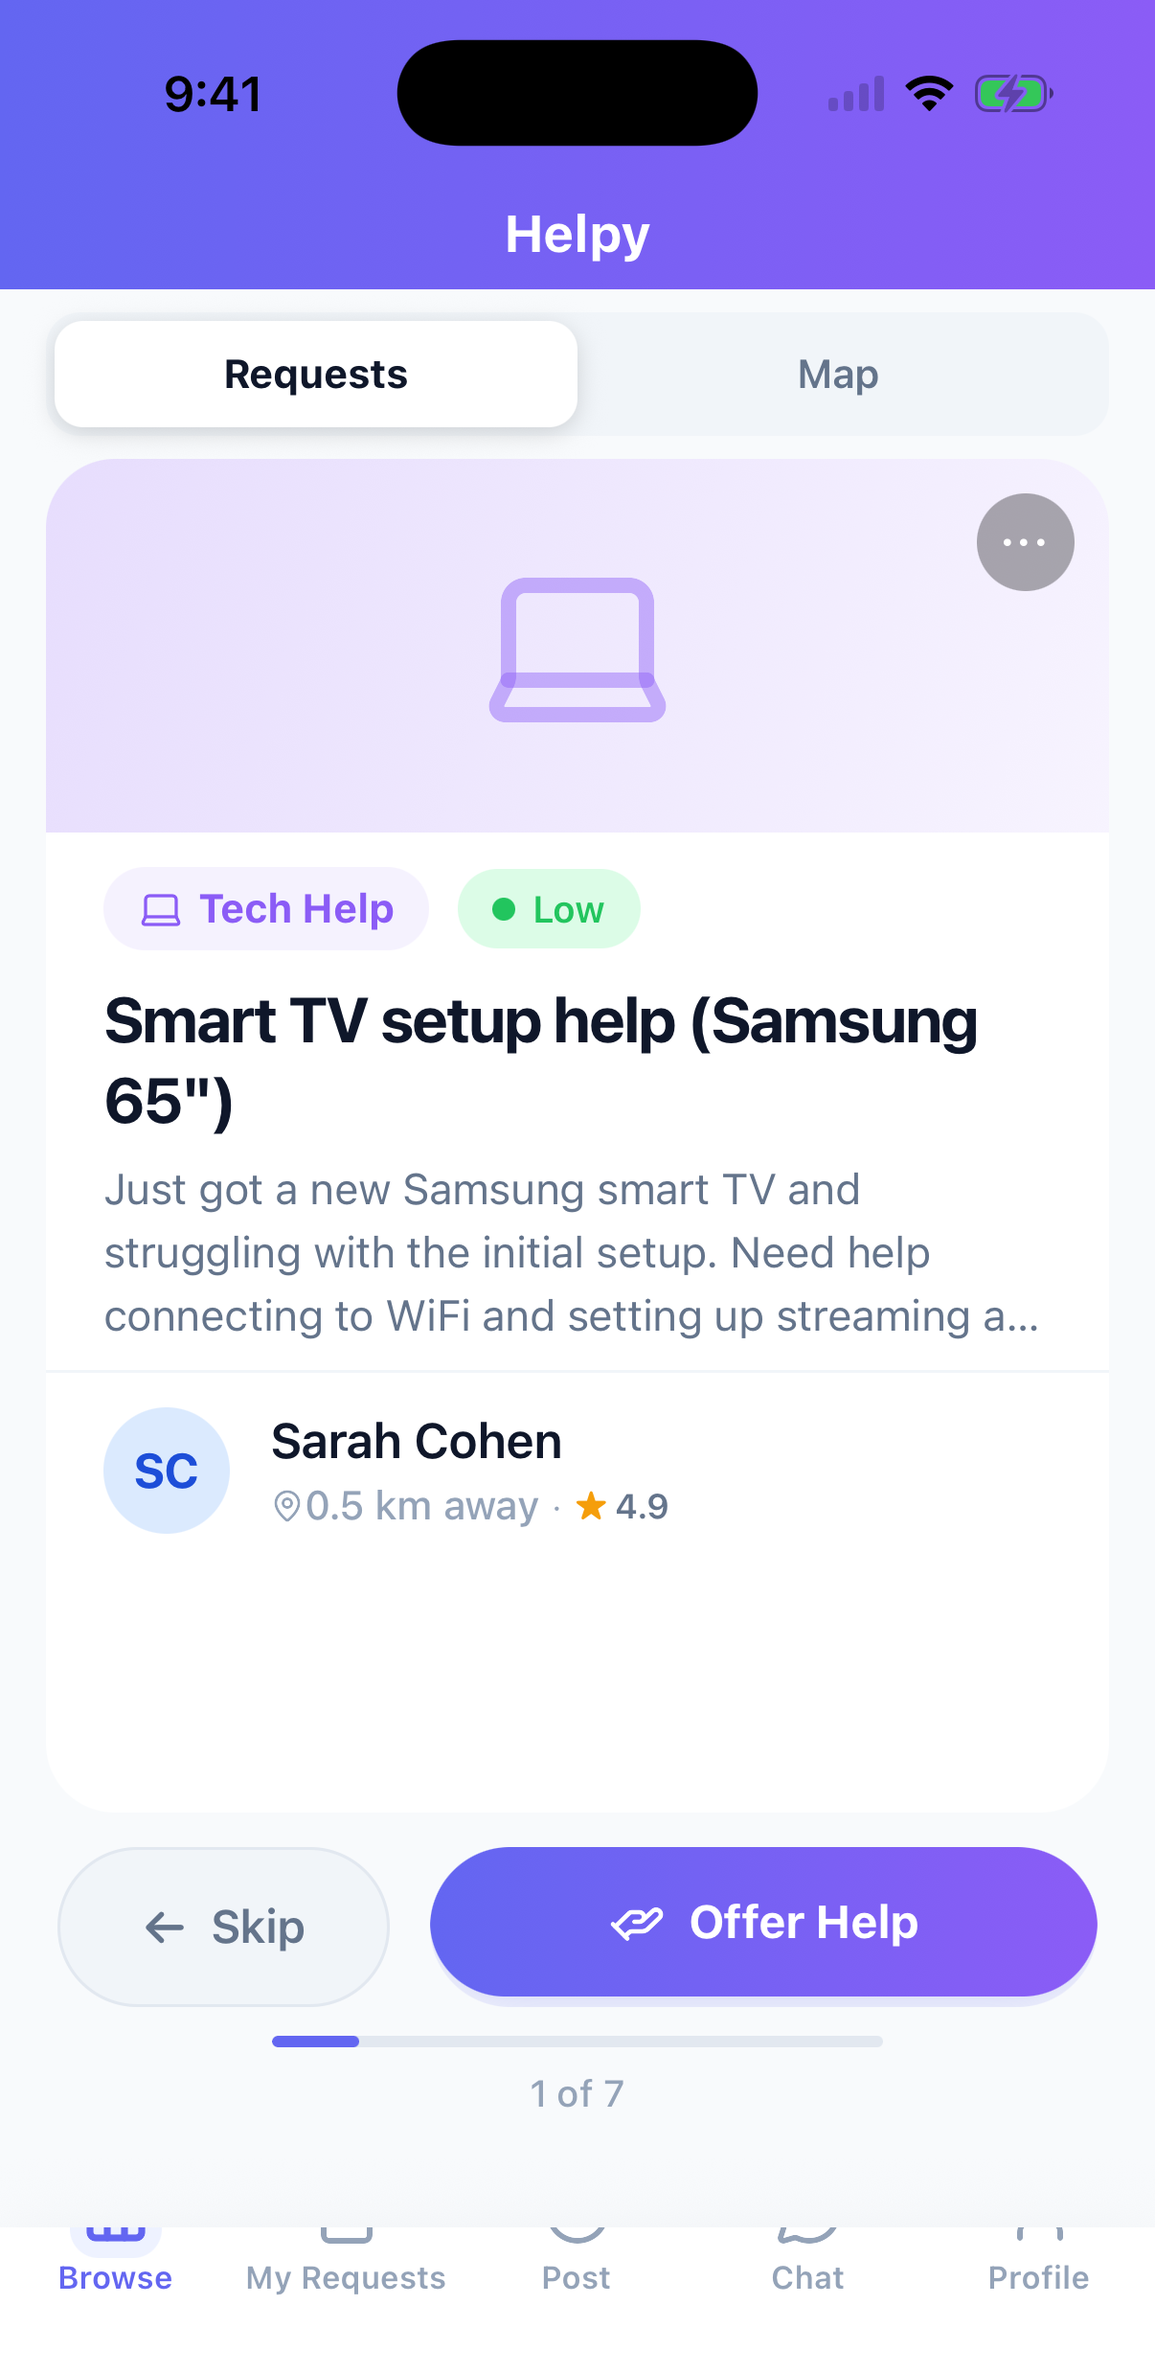
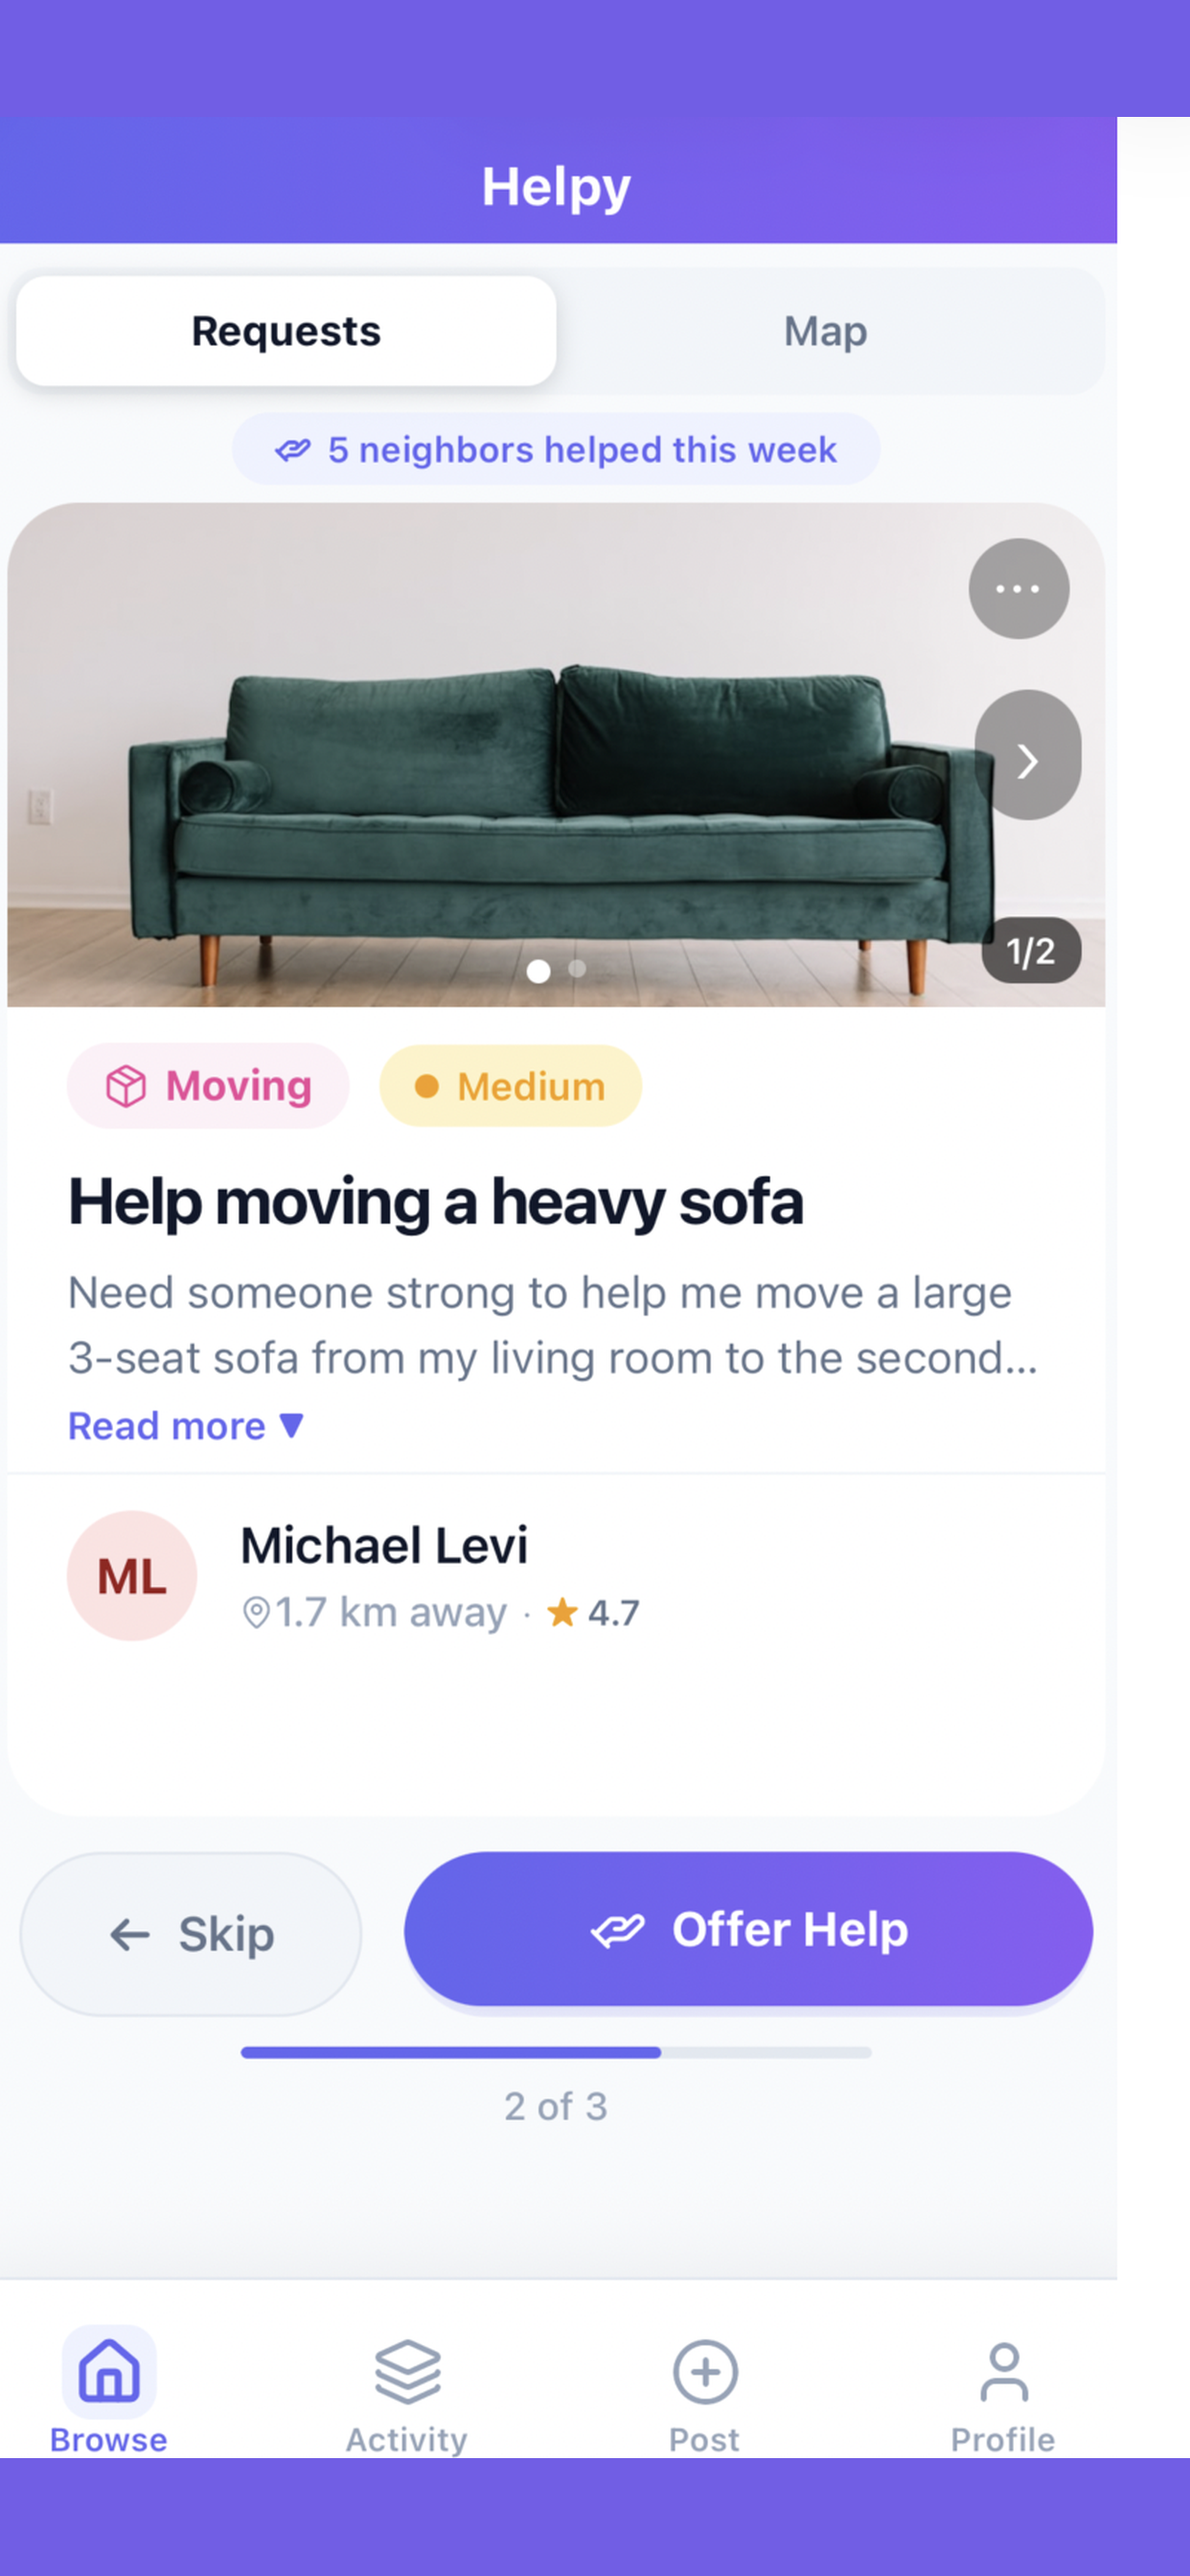
Update screenshots to latest App Store (Mar 15) build

diff --git a/index.html b/index.html
@@ -814,7 +814,7 @@
     <div class="phone-wrapper">
       <div class="phone-frame">
         <div class="phone-notch"></div>
-        <img src="06-hebrew.png" class="phone-screen" alt="Hebrew RTL Layout">
+        <img src="06-hebrew.png" class="phone-screen" alt="Browse with Photo">
       </div>
     </div>
   </div>
